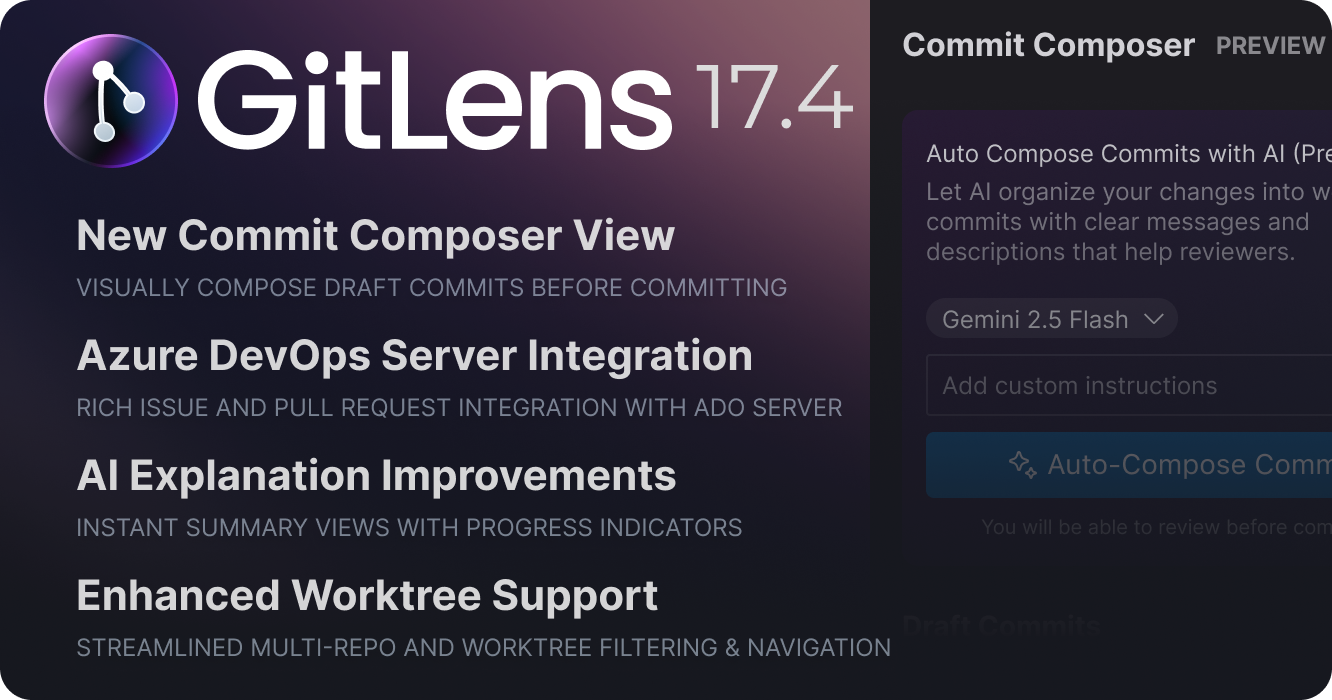
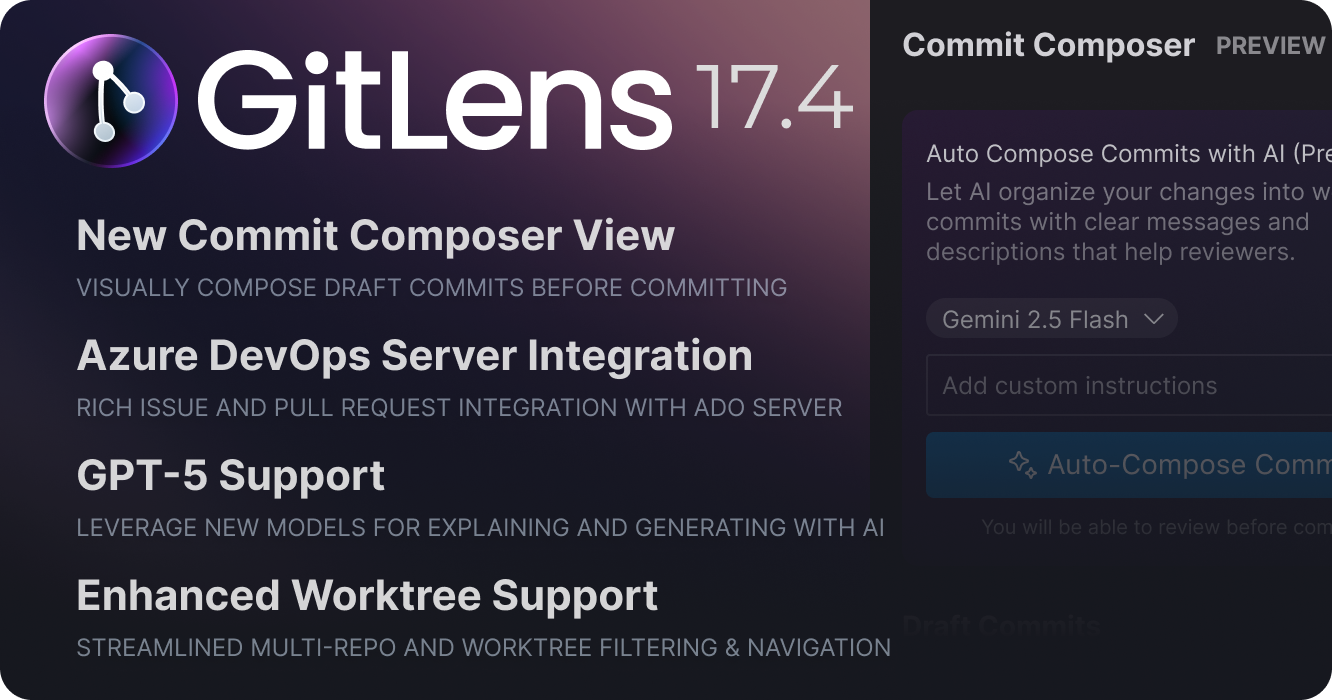
Add images and update release notes for GitLens 17.4

Changed region(s): [[0.0616, 0.66, 0.6772, 0.78]]

diff --git a/gitlens/gitlens-release-notes-current.md b/gitlens/gitlens-release-notes-current.md
@@ -22,28 +22,40 @@ Features marked with `PREVIEW` require a GitKraken Account, with access level ba
 
 #### Wednesday, August 14, 2025
 
-GitLens 17.4 transforms the Commit Composer experience with a powerful new composing view, introduces Azure DevOps Server integration for Pro users, enhances AI explanations, and delivers significant improvements to worktree workflows.
+GitLens 17.4 transforms the Commit Composer experience with a powerful new composing view, introduces Azure DevOps Server integration for Pro users, enhances AI explanations, adds support for new AI models like GPT-5, and delivers significant improvements to worktree workflows.
 
 <img src="/wp-content/uploads/gl-17-4-hero.png" class="help-center-img img-bordered">
 
 ### New Commit Composer View `PREVIEW`
 
-The Commit Composer has evolved from a simple one-step process into a comprehensive drafting and review experience. Previously, AI would analyze your changes and immediately create commits. Now, the new Commit Composer view gives you complete control over the composition process.
+The Commit Composer has evolved from a simple one-step process into a comprehensive drafting and review experience. Previously, AI would analyze your changes and immediately create commits. Now, the new Commit Composer view gives you complete control over the composition process, with options to auto-compose with AI or compose manually.
+
+Join the [Commit Composer discussion](https://github.com/gitkraken/vscode-gitlens/discussions/4530) and provide feedback.
 
 <img src="/wp-content/uploads/commit-composer-17-4.png" class="help-center-img img-bordered">
 
 #### Interactive Draft Commits
 
-When using AI to compose commits, GitLens now creates "draft" commits that you can review, modify, and refine before applying them to your repository. This new workflow lets you:
+When composing commits, GitLens now creates "draft" commits that you can review, modify, and refine before applying them to your repository. This new workflow lets you:
 
-- **Preview and edit commit messages** before finalizing them
-- **Switch between AI models** to regenerate suggestions with different approaches
-- **Provide custom instructions** to guide the AI in composing commits and writing messages according to your team's conventions
-- **Review code changes** for each proposed commit through integrated diffs
-- **Reorganize commits** by undoing, recomposing, or resetting back to your original state
-- **Apply changes with confidence** knowing exactly what will be committed
+- **Preview before committing**: See exactly what will be committed before it touches your repository
+- **Switch Models**: Try composition with different AI models
+- **Guide the AI**: Provide custom instructions to match your team's conventions and preferences  
+- **Iterate and refine**: Regenerate individual messages or entire commit compositions
+- **Review and edit**: Manually tweak any commit message or approach
 
 <img src="/wp-content/uploads/commit-composer-composed-17-4.png" class="help-center-img img-bordered">
+
+You can launch the new Commit Composer view from several places in GitLens:
+
+- **GitLens commit details view**
+- **Context menu on the WIP row** in the GitLens Commit Graph  
+- **Active branch card** in the GitLens Home View
+- **✨ icon in the SCM view header**
+- **Command palette**: Search for "Compose Commits"
+
+<img src="/wp-content/uploads/access-composer-1-17-4.png" class="help-center-img img-bordered">
+<img src="/wp-content/uploads/access-composer-2-17-4.png" class="help-center-img img-bordered">
 
 The foundation is now in place for even more powerful composition features in future releases, including intuitive drag-and-drop functionality for moving lines and hunks between commits, creating new draft commits on the fly, and reordering commit sequences.
 
@@ -60,6 +72,9 @@ Connect your Azure DevOps Server to unlock:
 - **Launchpad integration** - Monitor pull request blockers and review status from a unified view
 - **Native pull request creation** - Create Azure pull requests without leaving your IDE
 
+### New AI Model Support
+This release adds support for GPT-5 family (GPT-5, GPT-5 Mini, GPT-5 Nano), and Claude 4.1 Opus models
+
 ### AI Explanation Improvements
 
 AI-powered explanations now provide immediate feedback with enhanced user experience improvements:
@@ -69,6 +84,9 @@ AI-powered explanations now provide immediate feedback with enhanced user experi
 - **Streamlined presentation** focuses your attention on the generated content
 
 <img src="/wp-content/uploads/ai-explain-view-17-4.png" class="help-center-img img-bordered">
+
+### Branch Upstream Management
+You can now easily modify the upstream for local branches in GitLens from places like the Branches view and Commit Graph.
 
 ### Enhanced Worktree Support
 
